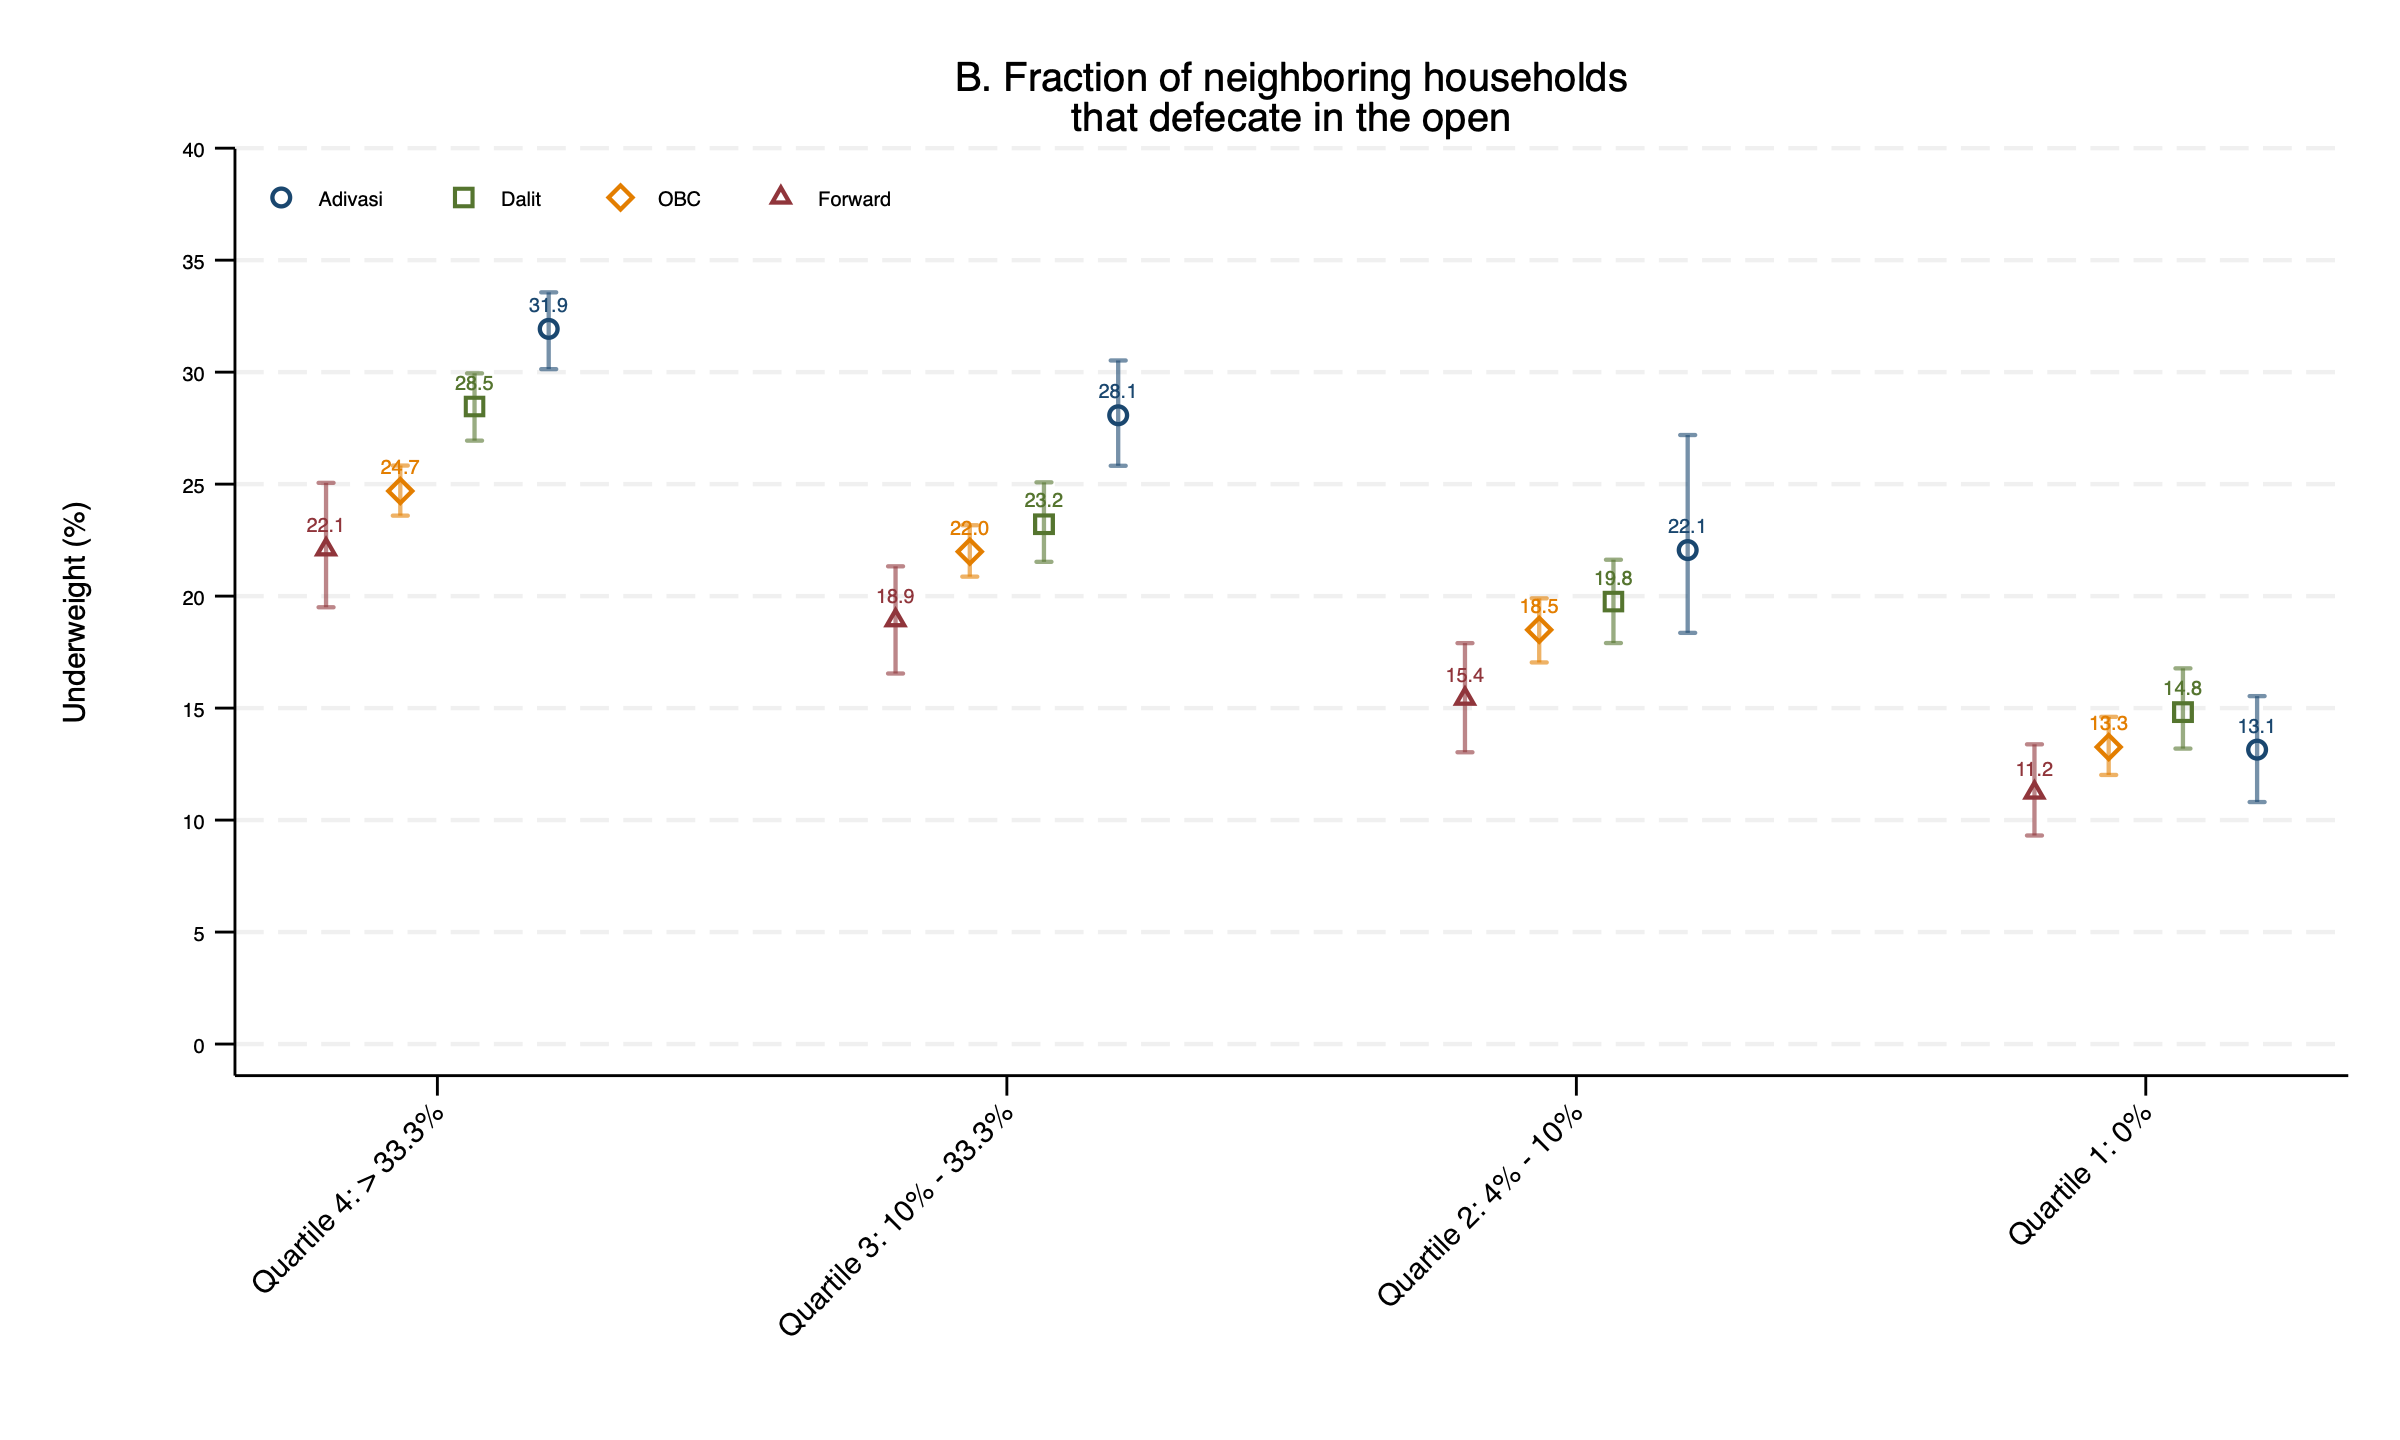
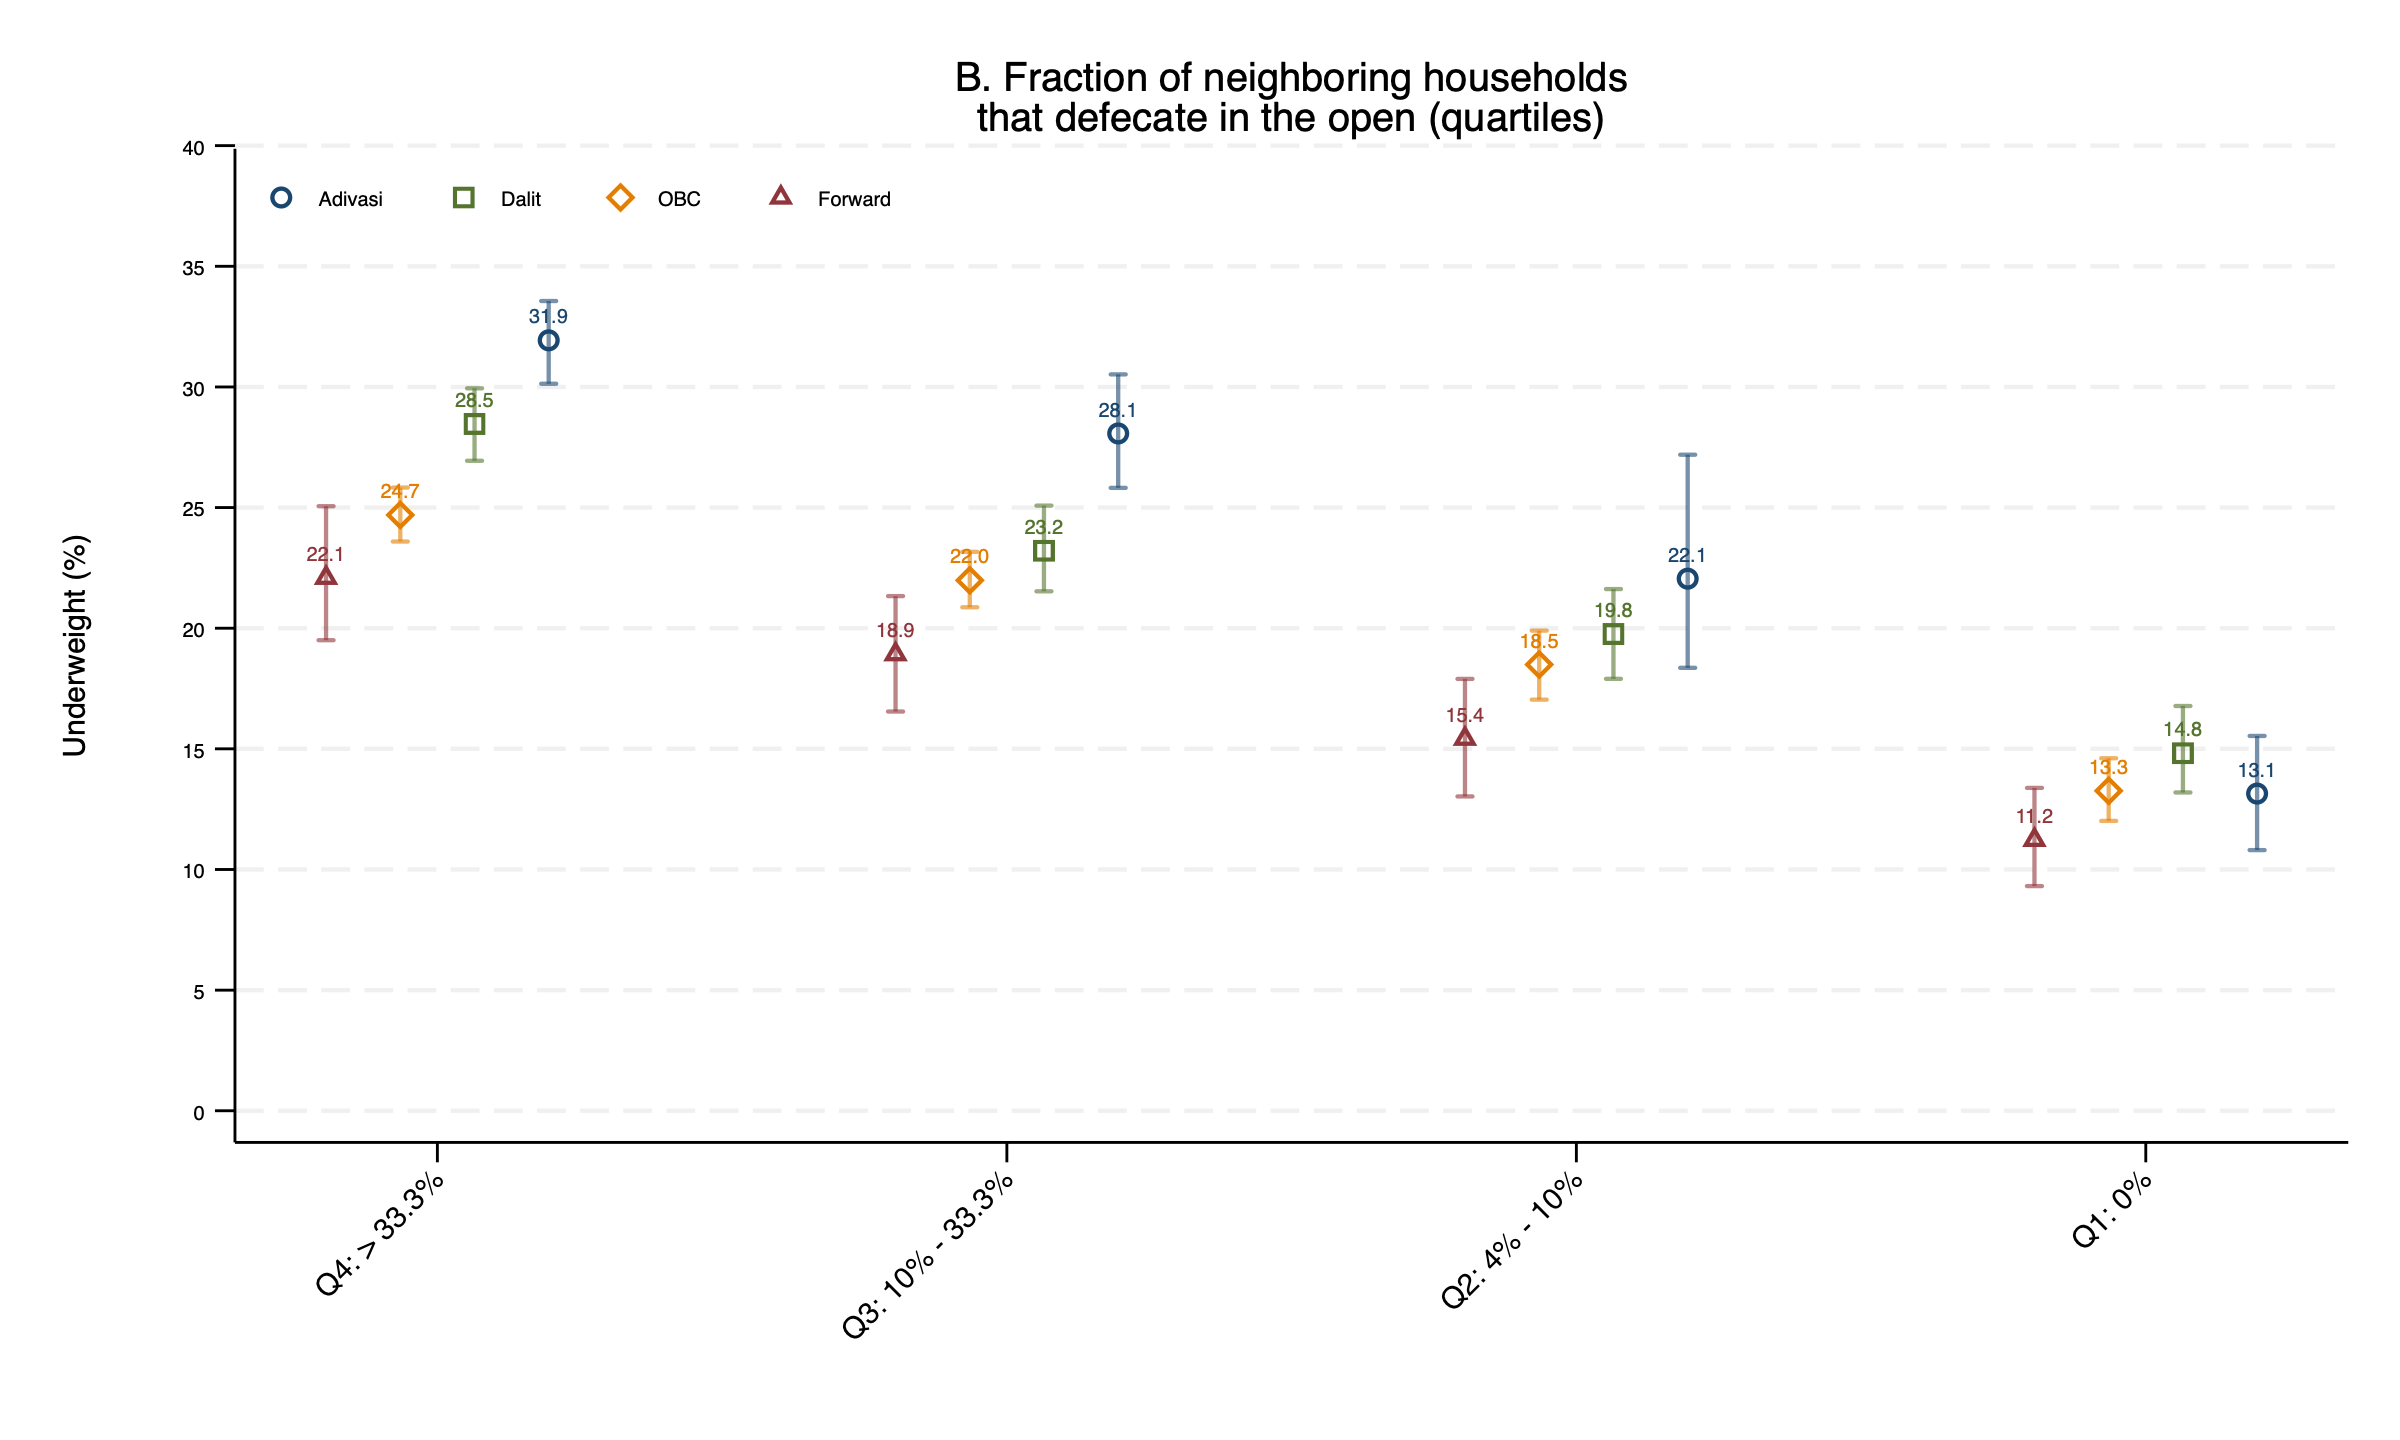
asdfasdf

diff --git a/tables/tableA1 predicting first quarter pregnancy NEW.tex b/tables/tableA1 predicting first quarter pregnancy NEW.tex
@@ -26,7 +26,7 @@
 \hspace*{1em}Middle              &       0.012\sym{**} &    (0.0044)\\
 \hspace*{1em}Richer              &       0.008         &    (0.0049)\\
 \hspace*{1em}Richest             &       0.008         &    (0.0060)\\
-\textbf{Percent of neighboring households that defecate in the open} \\ (Quartile 1 0\% omitted)&                     &            \\
+\textbf{Percent of neighboring households that defecate in the open} \\ (Quartile 1: 0\% omitted)&                     &            \\
 \hspace*{1em}Quartile 2: 4\% - 10\%&      -0.001         &    (0.0045)\\
 \hspace*{1em}Quartile 3: 10\% - 33.3\%&      -0.002         &    (0.0041)\\
 \hspace*{1em}Quartile 4: 33.3\% - 100\%&      -0.004         &    (0.0042)\\
